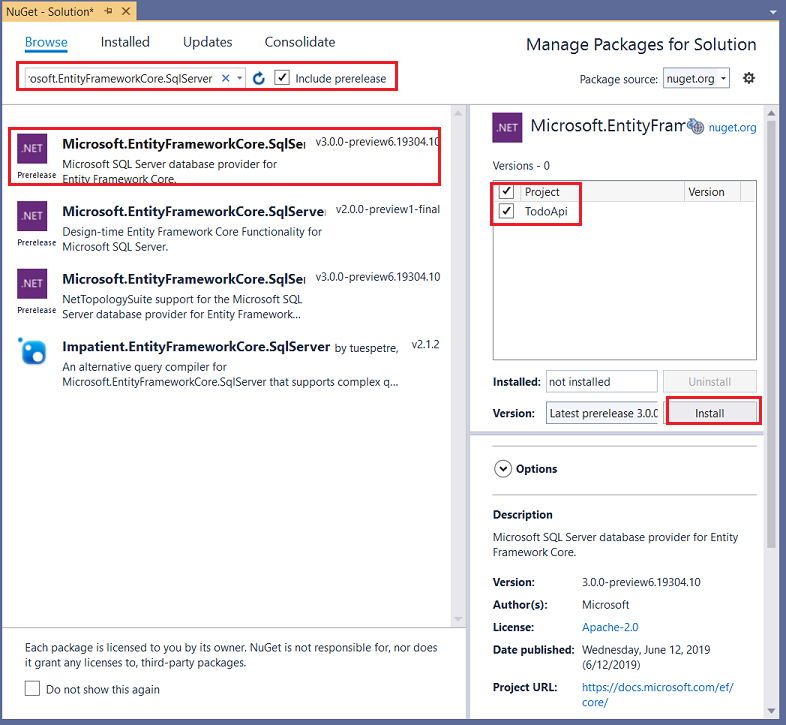
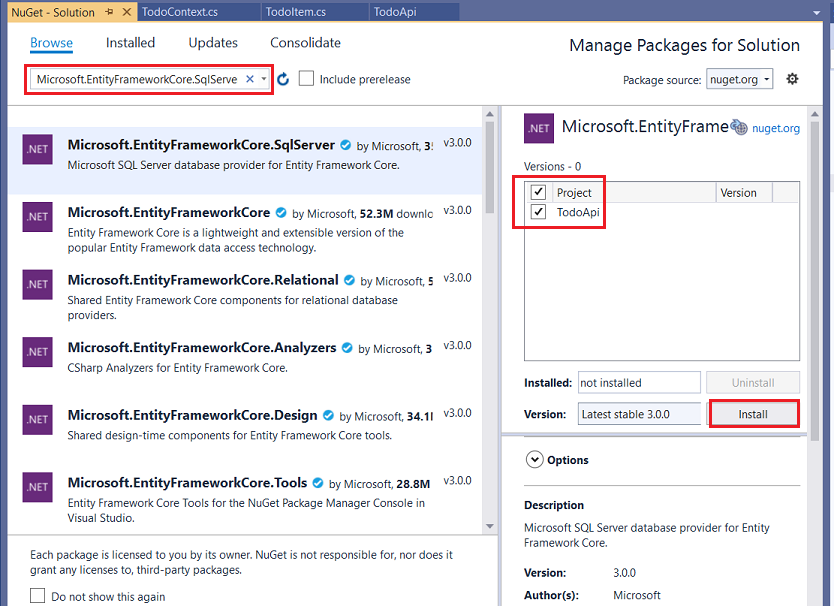
remove prerelease from Web API intro

Changed region(s): [[0.0, 0.0, 1.0, 1.0]]

diff --git a/aspnetcore/tutorials/first-web-api.md b/aspnetcore/tutorials/first-web-api.md
@@ -66,7 +66,7 @@ The following diagram shows the design of the app.
 * From the **File** menu, select **New** > **Project**.
 * Select the **ASP.NET Core Web Application** template and click **Next**.
 * Name the project *TodoApi* and click **Create**.
-* In the **Create a new ASP.NET Core Web Application** dialog, confirm that **.NET Core** and **ASP.NET Core 3.0** are selected. Select the **API** template and click **Create**. **Don't** select **Enable Docker Support**.
+* In the **Create a new ASP.NET Core Web Application** dialog, confirm that **.NET Core** and **ASP.NET Core 3.0** are selected. Select the **API** template and click **Create**.
 
 ![VS new project dialog](first-web-api/_static/vs3.png)
 
@@ -222,9 +222,8 @@ The *database context* is the main class that coordinates Entity Framework funct
 ### Add Microsoft.EntityFrameworkCore.SqlServer
 
 * From the **Tools** menu, select **NuGet Package Manager > Manage NuGet Packages for Solution**.
-* Select the **Include prerelease** checkbox.
 * Select the **Browse** tab, and then enter **Microsoft.EntityFrameworkCore.SqlServer** in the search box.
-* Select  **Microsoft.EntityFrameworkCore.SqlServer V3.0.0-preview** in the left pane.
+* Select  **Microsoft.EntityFrameworkCore.SqlServer** in the left pane.
 * Select the **Project** check box in the right pane and then select **Install**.
 * Use the preceding instructions to add the `Microsoft.EntityFrameworkCore.InMemory` NuGet package.
 
